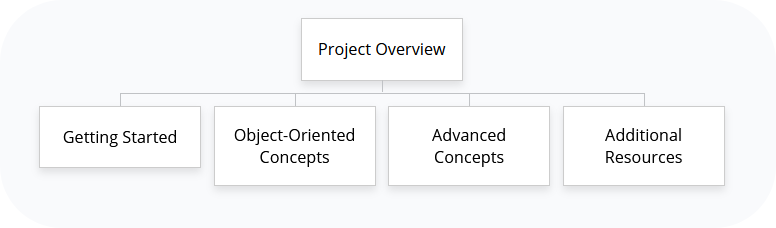
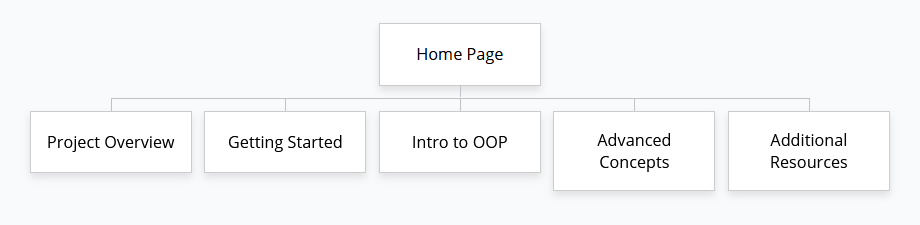
Client Project Setup

diff --git a/itis3135/components/footer.html b/itis3135/components/footer.html
@@ -7,15 +7,15 @@
 </style>
 <footer>
     <nav>
-        <a href="/itis3135/stuff/THE STUFF ^PAGE!.htm">Crappy Site</a>
+        <a href="itis3135/stuff/THE STUFF ^PAGE!.htm">Crappy Site</a>
         ||
-        <a href="/itis3135/hobby/index.html">Hobby Page</a>
+        <a href="itis3135/hobby/index.html">Hobby Page</a>
         ||
-        <a href="/itis3135/website_evaluations.html">Website Evals</a>
+        <a href="itis3135/website_evaluations.html">Website Evals</a>
         ||
-        <a href="/itis3135/tables.html">Tables</a>
+        <a href="itis3135/tables.html">Tables</a>
         ||
-        <a href="/itis3135/client_project/project_overview.html">Client Project</a>
+        <a href="itis3135/client_project/index.html">Client Project</a>
         <p><a href="./lombarddesigns.cc/index.html">Lombard Designs &copy;2025</a>, Certified in <a href="https://www.freecodecamp.org/certification/DecafCoffee/responsive-web-design">Responsive Web Design</a></p>
     </nav>
 </footer>

diff --git a/itis3135/client_project/oop_info.html b/itis3135/client_project/oop_info.html
@@ -1,0 +1,20 @@
+<!DOCTYPE html>
+<html lang="en">
+<head>
+    <meta charset="UTF-8">
+    <meta name="viewport" content="width=device-width, initial-scale=1.0">
+    <title>Garrett Lombard || ITIS3135 || Client Project: Requirements</title>
+    <link rel="stylesheet" href="styles.css">
+    <script src="https://lint.page/kit/4d0fe3.js" crossorigin="anonymous"></script>
+</head>
+
+<body>
+    <div data-include="../components/project_nav.html"></div>
+    <main>
+       <h1>Object-Oriented Programming</h1>
+    </main>    
+
+
+<script src="../scripts/include.js"></script>
+</body>
+</html>

diff --git a/itis3135/client_project/additional_resources.html b/itis3135/client_project/additional_resources.html
@@ -1,0 +1,20 @@
+<!DOCTYPE html>
+<html lang="en">
+<head>
+    <meta charset="UTF-8">
+    <meta name="viewport" content="width=device-width, initial-scale=1.0">
+    <title>Garrett Lombard || ITIS3135 || Client Project: Requirements</title>
+    <link rel="stylesheet" href="styles.css">
+    <script src="https://lint.page/kit/4d0fe3.js" crossorigin="anonymous"></script>
+</head>
+
+<body>
+    <div data-include="../components/project_nav.html"></div>
+    <main>
+       <h1>Additional Resources</h1>
+    </main>    
+
+
+<script src="../scripts/include.js"></script>
+</body>
+</html>

diff --git a/itis3135/client_project/getting_started.html b/itis3135/client_project/getting_started.html
@@ -1,0 +1,20 @@
+<!DOCTYPE html>
+<html lang="en">
+<head>
+    <meta charset="UTF-8">
+    <meta name="viewport" content="width=device-width, initial-scale=1.0">
+    <title>Garrett Lombard || ITIS3135 || Client Project: Requirements</title>
+    <link rel="stylesheet" href="styles.css">
+    <script src="https://lint.page/kit/4d0fe3.js" crossorigin="anonymous"></script>
+</head>
+
+<body>
+    <div data-include="../components/project_nav.html"></div>
+    <main>
+       <h1>Getting Started</h1>
+    </main>    
+
+
+<script src="../scripts/include.js"></script>
+</body>
+</html>

diff --git a/itis3135/components/header.html b/itis3135/components/header.html
@@ -9,7 +9,7 @@
 <header>
     <h1>Garrett Lombard || ITIS3135</h1>
     <nav>
-    <a href="/itis3135/index.html">CLT Webpage</a>
+    <a href="itis3135/index.html">CLT Webpage</a>
     ||
     <a href="https://www.linkedin.com/in/garrett-lombard-a55394291/">Linkedin</a>
     ||
@@ -21,6 +21,6 @@
     ||
     <a href="itis3135/geriatriclocust.com/about.html">Whimsical Company</a>
     ||
-    <a href="/itis3135/byo_intro.html">BYO Intro</a>
+    <a href="itis3135/byo_intro.html">BYO Intro</a>
     </nav>
 </header>

diff --git a/itis3135/client_project/project_overview.html b/itis3135/client_project/project_overview.html
@@ -28,8 +28,8 @@
         </ul>
         <h2>Site Map: </h2>
         <figure>
-            <img src="/itis3135/images/sitemap.png" alt="site map">
-            <figcaption><em>Sitemap with the different pages on this </em></site></figcaption>
+            <img src="../images/sitemap.png" alt="site map">
+            <figcaption><em>Sitemap with the different pages on this site.</em></figcaption>
         </figure>
         <h2>Page Design: (1 for each page)</h2>
         <h3>Getting Started:</h3>

diff --git a/itis3135/client_project/index.html b/itis3135/client_project/index.html
@@ -11,7 +11,10 @@
 <body>
     <div data-include="../components/project_nav.html"></div>
     <main>
-       <h1>Advanced Concepts</h1>
+       <h1>Home Page</h1>
+       <h2>Welcome to our site!</h2>
+       <p>This site is intended to be a basic tutorial to the world of Java</p>
+       Use the nav bar at the top to get around, and start learning!
     </main>    
 
 

diff --git a/itis3135/components/project_nav.html b/itis3135/components/project_nav.html
@@ -13,7 +13,7 @@
     --
     <a href="getting_started.html">Getting Started</a>
     --
-    <a href="oop_info">Intro to OOP</a>
+    <a href="oop_info.html">Intro to OOP</a>
     --
     <a href="advanced.html">Advanced Concepts</a>
     --
